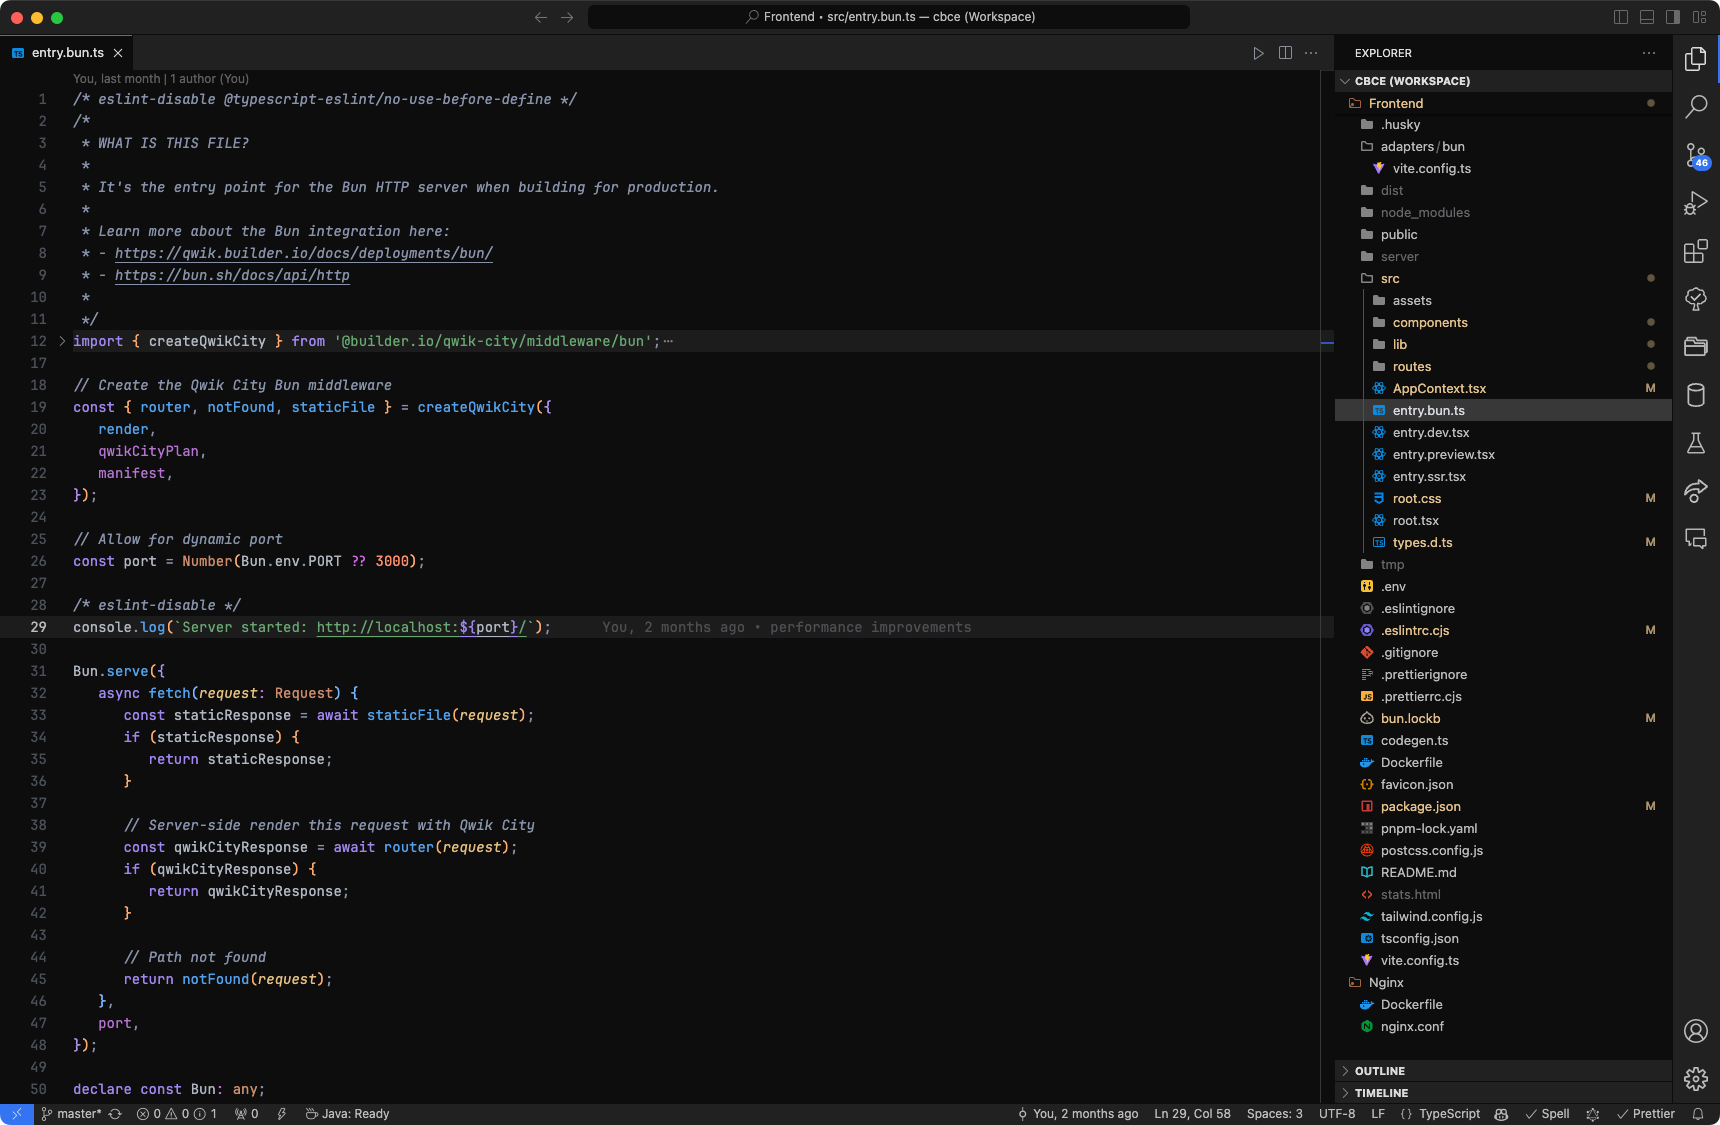
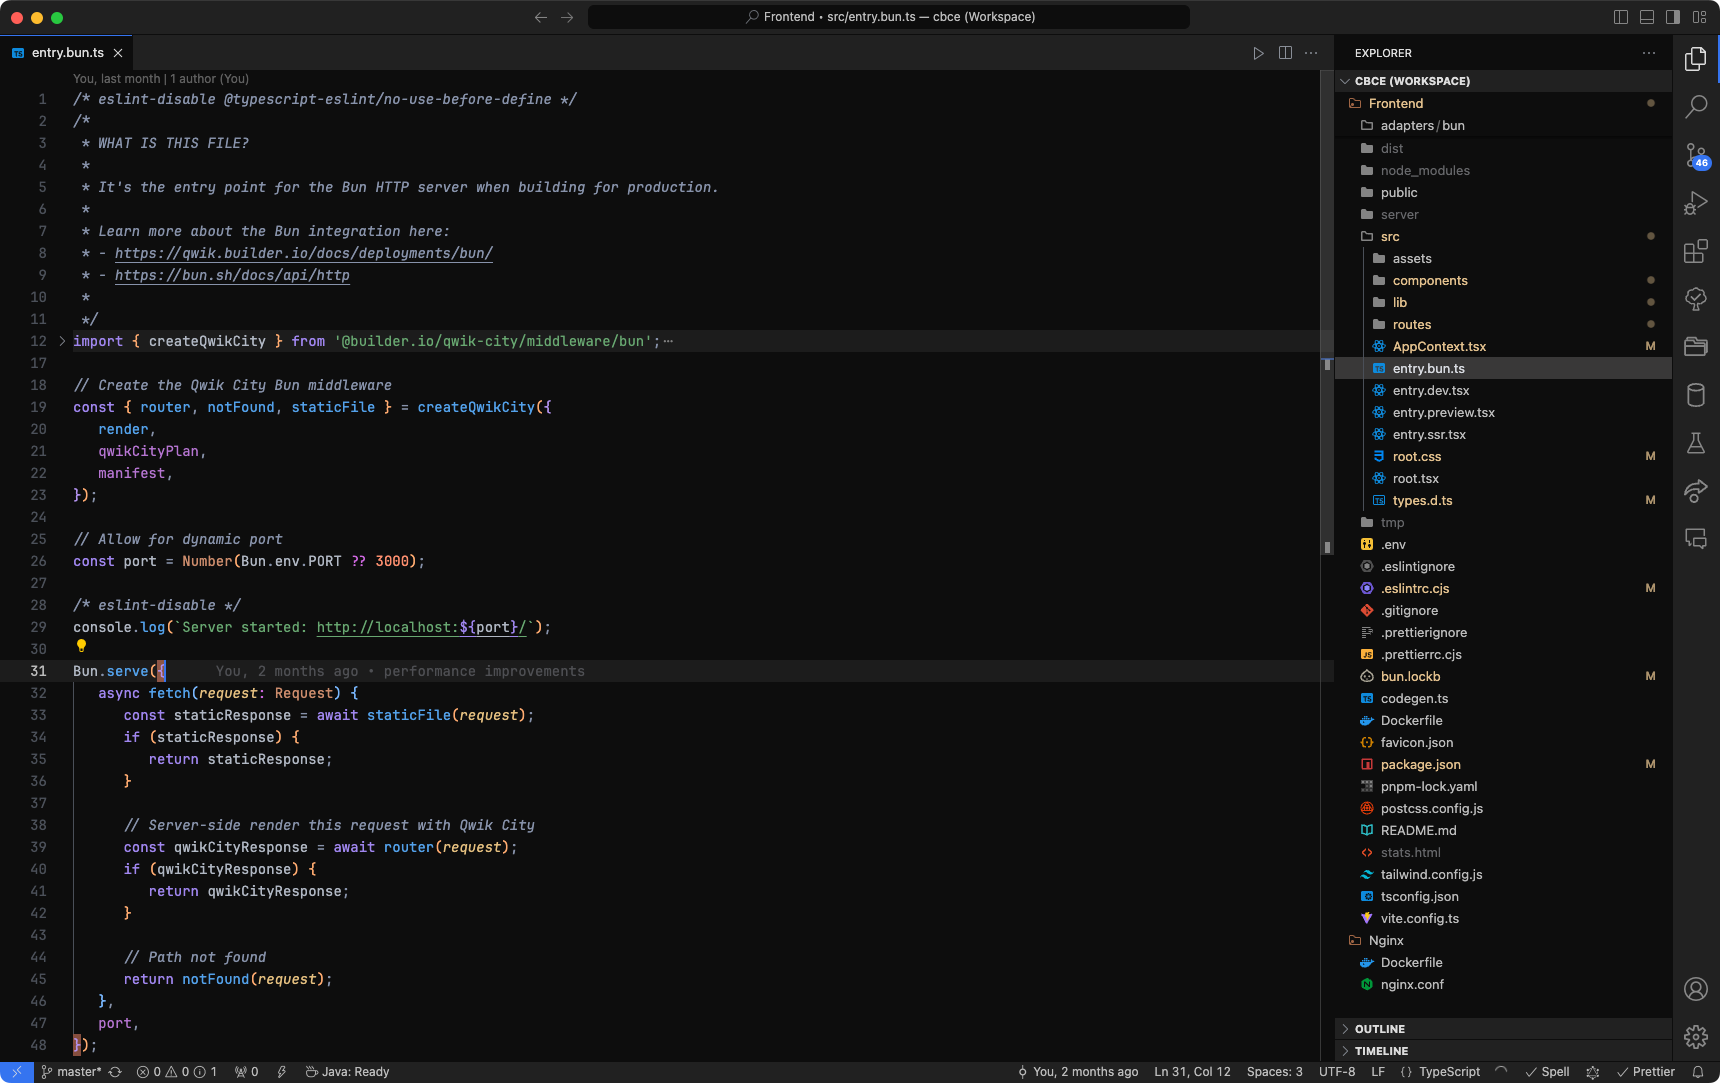
updated sidebar

diff --git a/CHANGELOG.md b/CHANGELOG.md
@@ -2,9 +2,17 @@
 
 All notable changes to the "better-coding" extension will be documented in this file.
 
+## [1.1.9] - 2024-03-14
+
+### Updated
+
+-  String
+-  Sidebar
+-  Constants
+
 ## [1.1.0] - 2024-03-07
 
-## Added
+### Added
 
 -  Dark+ theme
 
